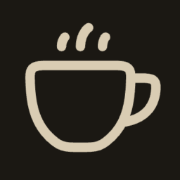
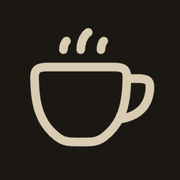
feat: add service worker for caching and offline support
- Implemented a service worker (sw.js) to cache application shell and handle fetch requests.
- Added installation and activation events to manage cache lifecycle.
- Created a registration script (registerServiceWorker.ts) to register the service worker on application load.

Changed region(s): [[0.1389, 0.3333, 0.9167, 0.8611], [0.3056, 0.1111, 0.6389, 0.3056]]

diff --git a/web/public/sw.js b/web/public/sw.js
@@ -1,0 +1,56 @@
+const CACHE_NAME = "coffee-pocket-v1";
+const APP_SHELL = ["/", "/site.webmanifest"];
+
+self.addEventListener("install", (event) => {
+  event.waitUntil(
+    caches.open(CACHE_NAME).then((cache) => cache.addAll(APP_SHELL)),
+  );
+  self.skipWaiting();
+});
+
+self.addEventListener("activate", (event) => {
+  event.waitUntil(
+    caches
+      .keys()
+      .then((keys) =>
+        Promise.all(keys.filter((key) => key !== CACHE_NAME).map((key) => caches.delete(key))),
+      ),
+  );
+  self.clients.claim();
+});
+
+self.addEventListener("fetch", (event) => {
+  if (event.request.method !== "GET") return;
+
+  const requestUrl = new URL(event.request.url);
+  if (requestUrl.origin !== self.location.origin) return;
+
+  if (event.request.mode === "navigate") {
+    event.respondWith(
+      fetch(event.request)
+        .then((response) => {
+          const responseClone = response.clone();
+          caches.open(CACHE_NAME).then((cache) => cache.put("/", responseClone));
+          return response;
+        })
+        .catch(() => caches.match("/")),
+    );
+    return;
+  }
+
+  event.respondWith(
+    caches.match(event.request).then((cachedResponse) => {
+      if (cachedResponse) return cachedResponse;
+
+      return fetch(event.request).then((response) => {
+        if (!response || response.status !== 200 || response.type !== "basic") {
+          return response;
+        }
+
+        const responseClone = response.clone();
+        caches.open(CACHE_NAME).then((cache) => cache.put(event.request, responseClone));
+        return response;
+      });
+    }),
+  );
+});

diff --git a/web/src/registerServiceWorker.ts b/web/src/registerServiceWorker.ts
@@ -1,0 +1,9 @@
+export function registerServiceWorker() {
+  if (!("serviceWorker" in navigator) || import.meta.env.DEV) return;
+
+  window.addEventListener("load", () => {
+    navigator.serviceWorker.register("/sw.js").catch((error) => {
+      console.error("Service worker registration failed", error);
+    });
+  });
+}

diff --git a/web/index.html b/web/index.html
@@ -4,6 +4,12 @@
     <meta charset="UTF-8" />
     <meta name="viewport" content="width=device-width, initial-scale=1.0, viewport-fit=cover" />
     <meta name="theme-color" content="#F8F3E9" />
+    <meta name="description" content="咖啡口袋 · Coffee Pocket，收藏你的台南咖啡店口袋名單。" />
+    <meta name="application-name" content="Coffee Pocket" />
+    <meta name="apple-mobile-web-app-title" content="Coffee Pocket" />
+    <meta name="apple-mobile-web-app-capable" content="yes" />
+    <meta name="apple-mobile-web-app-status-bar-style" content="default" />
+    <meta name="mobile-web-app-capable" content="yes" />
     <link rel="icon" type="image/x-icon" href="/favicon.ico" />
     <link rel="icon" type="image/png" sizes="32x32" href="/favicon-32x32.png" />
     <link rel="icon" type="image/png" sizes="16x16" href="/favicon-16x16.png" />

diff --git a/web/src/main.tsx b/web/src/main.tsx
@@ -3,6 +3,7 @@ import ReactDOM from "react-dom/client";
 import { BrowserRouter } from "react-router-dom";
 import { QueryClient, QueryClientProvider } from "@tanstack/react-query";
 import { UserLocationProvider } from "./context/UserLocationContext";
+import { registerServiceWorker } from "./registerServiceWorker";
 import App from "./App";
 import "mapbox-gl/dist/mapbox-gl.css";
 import "./styles/index.css";
@@ -22,6 +23,8 @@ import "./styles/index.css";
     document.documentElement.setAttribute("data-theme", "coffee-paper");
   }
 })();
+
+registerServiceWorker();
 
 const queryClient = new QueryClient({
   defaultOptions: {